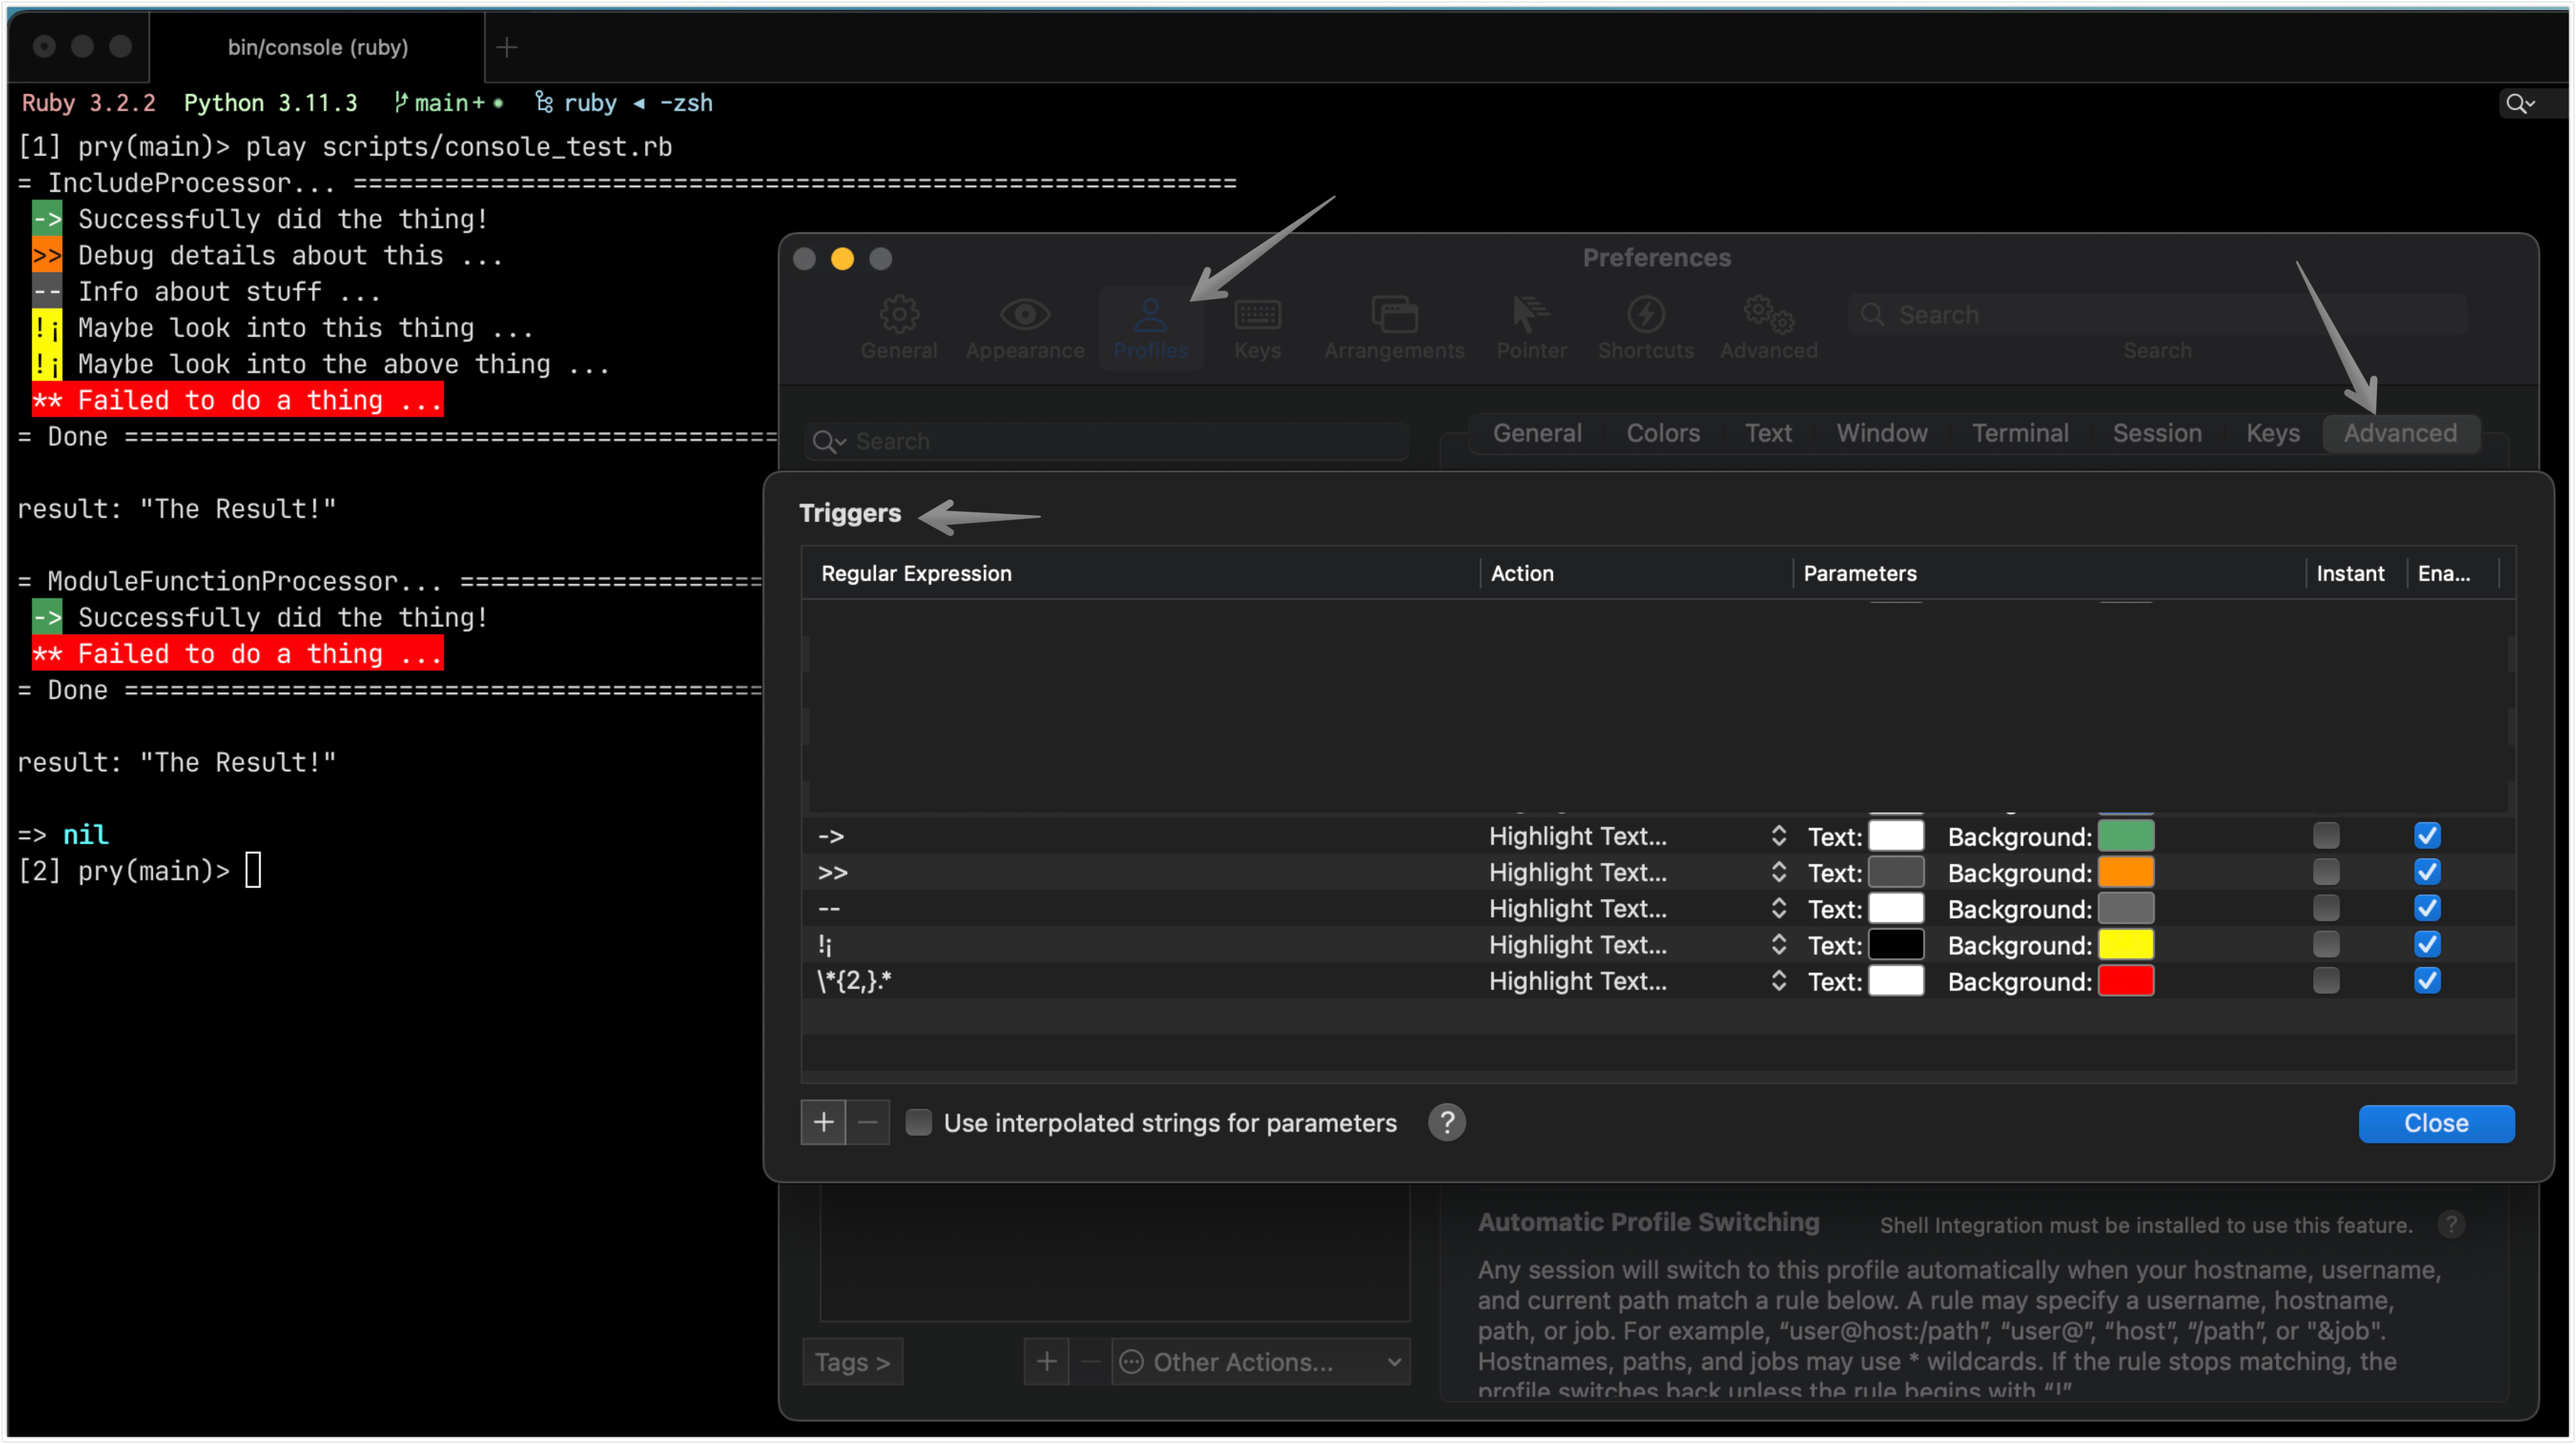
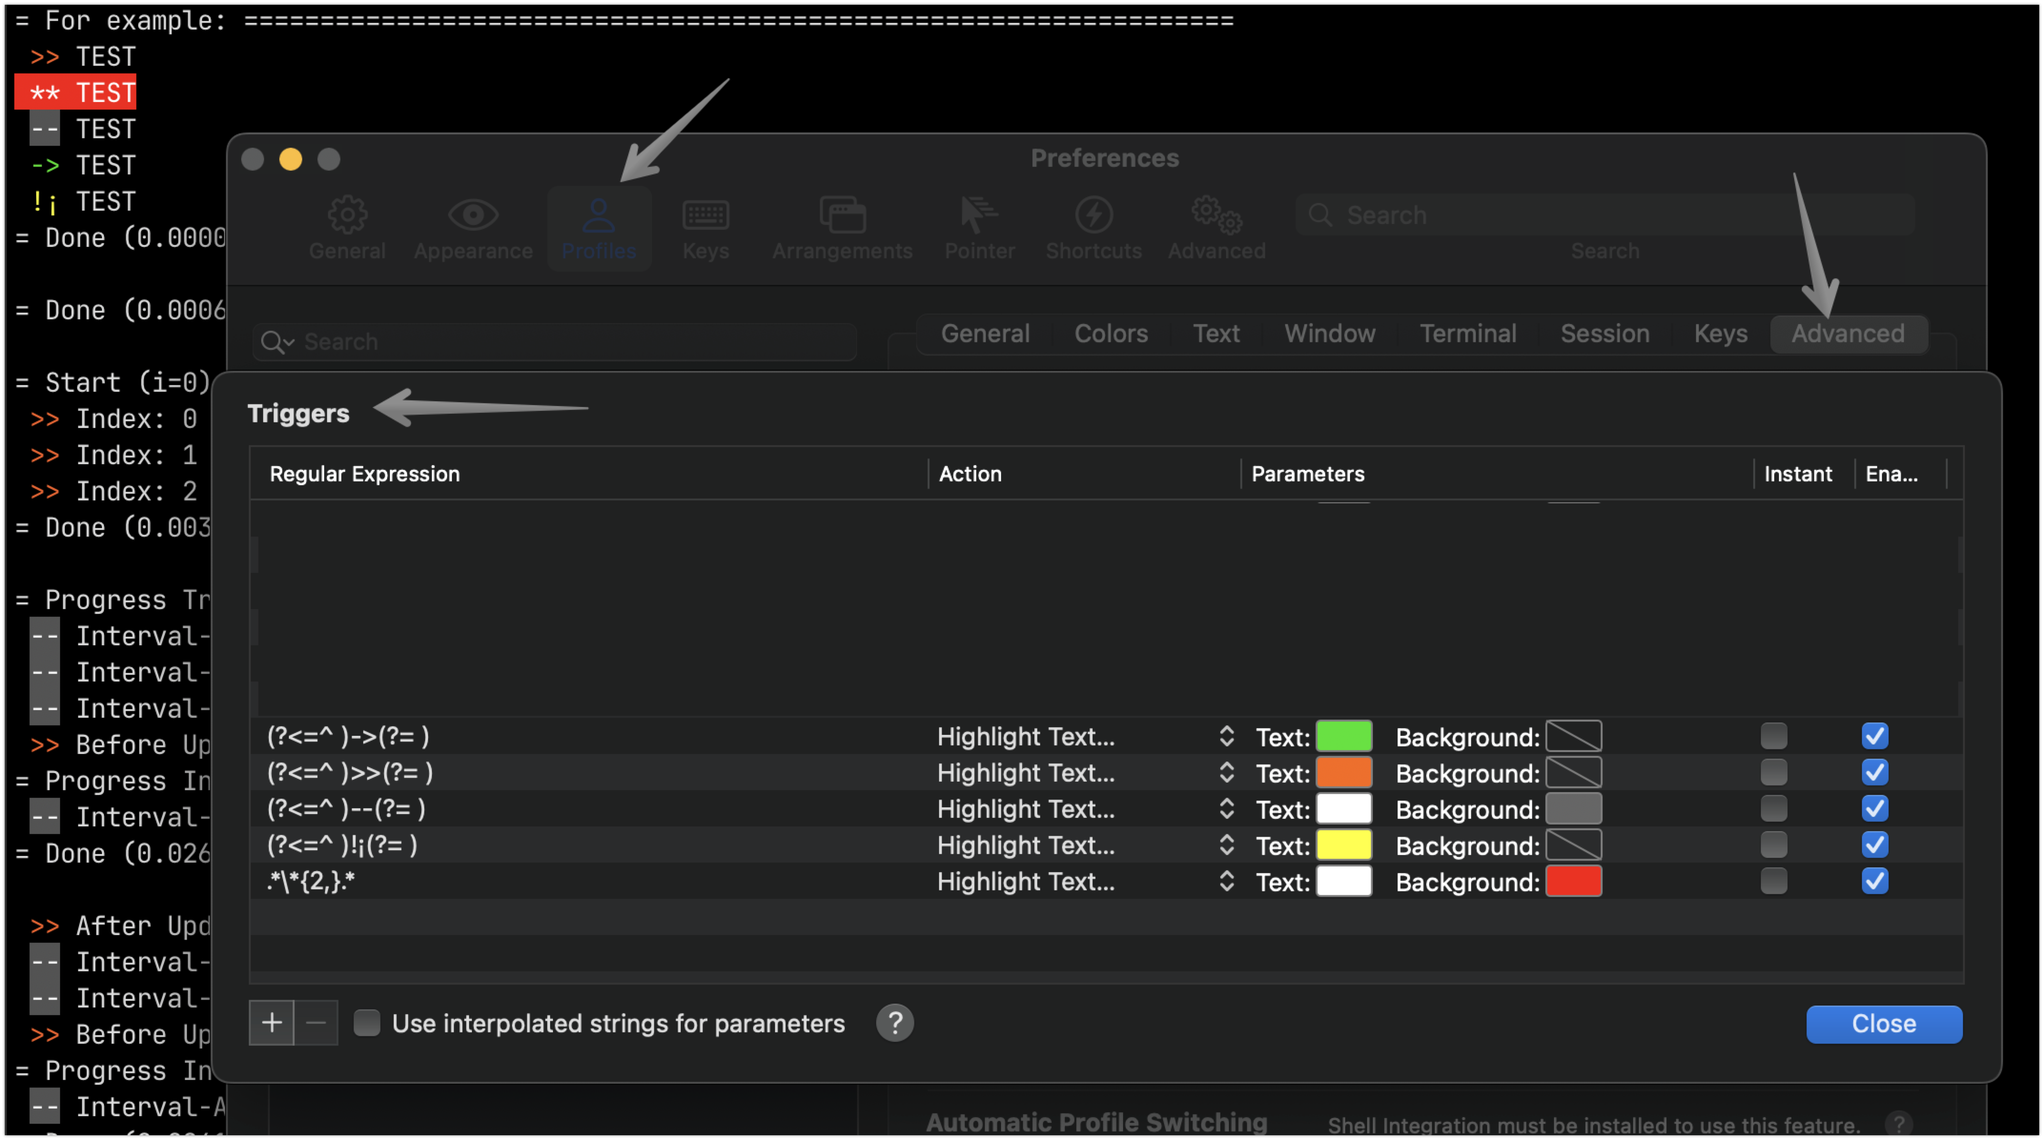
Update iTerm2 screenshot/regex/HEX styling
Update to a default approach of styling text color vs background color
for the iTerm2 triggers.

Also, only stylize the text if found at the beginning of a line of text
in the console and don't stylize the white space around it.

diff --git a/README.md b/README.md
@@ -223,11 +223,11 @@ For more help, see [iTerm's documentation on Triggers](https://iterm2.com/trigge
 The regular expressions and HEX codes used in the screenshot are:
 
 ```ruby
-->          # Background HEX: #54a76c
->>          # Background HEX: #ff8e00     (Optional) Text HEX: #4c4c4c
---          # Background HEX: #666666
-!¡          # Background HEX: #fff808     (Optional) Text HEX: #000000
-\*{2,}.*    # Background HEX: #ff0000
+(?<=^ )->(?= )  # Text HEX: #0ae400  Background HEX: transparent
+(?<=^ )>>(?= )  # Text HEX: #ff6500  Background HEX: transparent
+(?<=^ )--(?= )  # Text HEX: #ffffff  Background HEX: #666666
+(?<=^ )!¡(?= )  # Text HEX: #ffff00  Background HEX: transparent
+.*\*{2,}.*      # Text HEX: #ffffff  Background HEX: #ff0000
 ```
 
 ## Development
